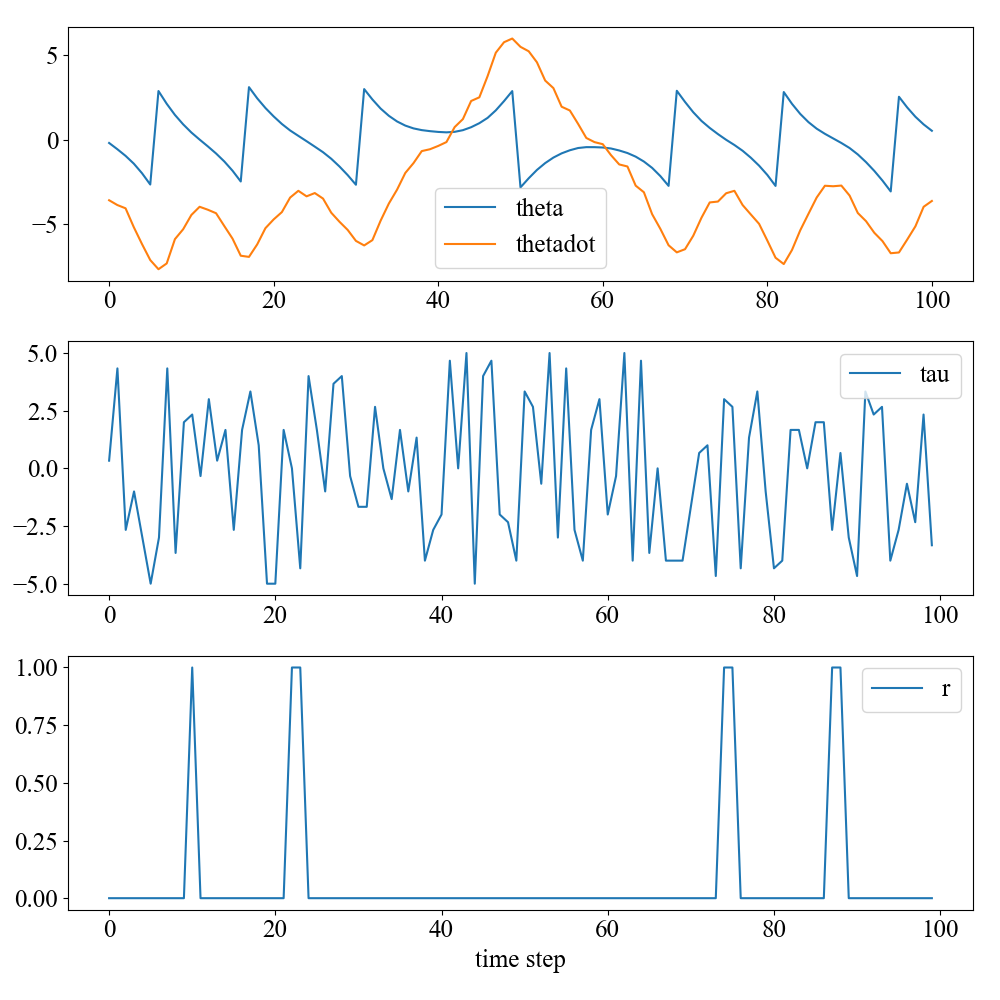
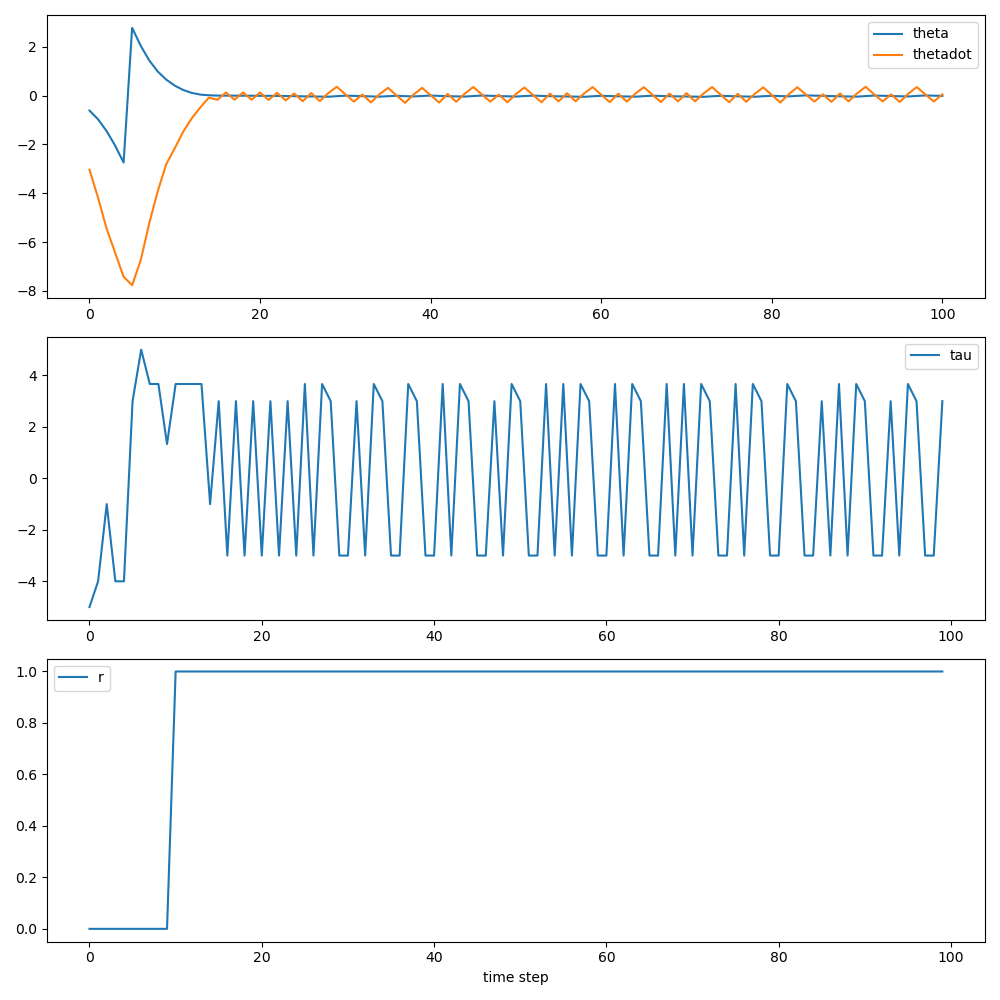
fix: traj

diff --git a/gen_traj.py b/gen_traj.py
@@ -1,0 +1,19 @@
+import torch
+from discreteaction_pendulum import Pendulum
+
+from dqn.dqn import DQN
+from dqn.plot import generate_trajectory
+
+env = Pendulum()
+
+n_actions: int = env.num_actions
+n_observations: int = len(env.reset())
+
+device = torch.device("cuda" if torch.cuda.is_available() else "cpu")
+
+policy_net = DQN(n_observations, n_actions).to(device)
+policy_net.load_state_dict(torch.load("models/dqn_w_rep_w_target.pt"))
+
+traj_filename: str = "figures/traj_w_rep_w_target.png"
+video_filename: str = "figures/video_w_rep_w_target.gif"
+generate_trajectory(env, policy_net, traj_filename, video_filename)

diff --git a/dqn/plot.py b/dqn/plot.py
@@ -58,7 +58,7 @@ def generate_trajectory(
     # Simulate until episode is done
     done = False
     while not done:
-        a = random.randrange(env.num_actions)
+        a = wrapped_policy(s)
         (s, r, done) = env.step(a)
         data["t"].append(data["t"][-1] + 1)
         data["s"].append(s)
